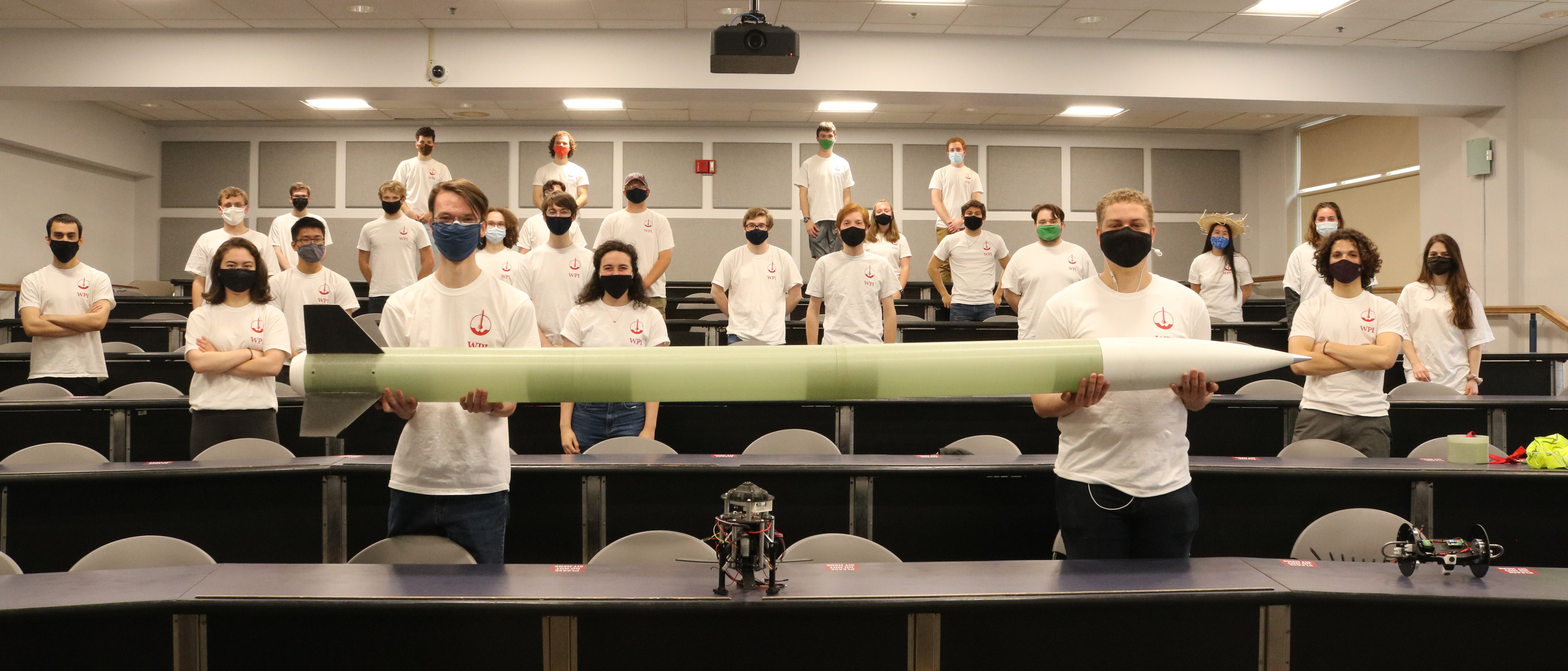
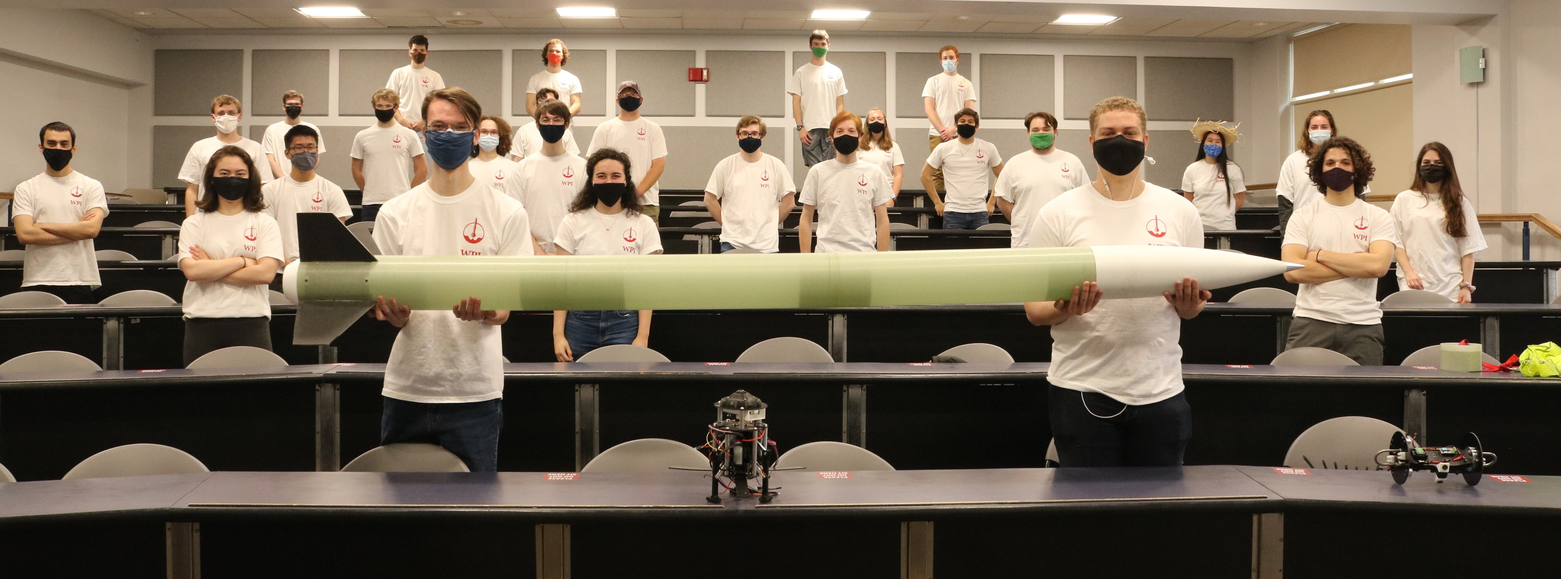
Added YouTube and LinkedIn links, (hopefully) fixed photo)

diff --git a/wpiaiaasite/hprc/templates/hprc/index.html b/wpiaiaasite/hprc/templates/hprc/index.html
@@ -12,7 +12,7 @@
         <div class="col-md-9">
             <h1>What is HPRC?</h1>
             <p>
-                The High Power Rocketry Club (HPRC) is a Subcommittee of WPI's chapter of the American Institute of
+                The High Power Rocketry Club (HPRC) is a subcommittee of WPI's chapter of the American Institute of
                 Aeronautics & Astronautics (AIAA) that competes in high power rocketry competitions.  This year we were
                 involved in
                 the NASA University Student Launch Initiative, the same competition we competed in the past two years. 
@@ -118,24 +118,33 @@
             </div>
             <h2 class="mt-3">Social Media</h2>
             <div class="row">
-                <div class="col-sm-6">
+                <div class="col-sm-5">
                     <a href="https://www.instagram.com/wpi_hprc/" target="_blank">
                         <img src="{% static 'icon/instagram.svg' %}" alt="Instagram" width=50%
                             class="mx-auto mt-2 d-block grow" />
                     </a>
                 </div>
-                <div class="col-sm-6">
+                <div class="col-sm-5">
+                    <a href="https://www.youtube.com/channel/UCBQQnkCEcQVjmMxXQIKhfKQ" target="_blank">
+                        <img src="{% static 'icon/youtube-logo.svg' %}" alt="YouTube" width=50%
+                            class="mx-auto mt-2 d-block grow" />
+                    </a>
+                </div>
+            </div>
+            <br>
+            <div class="row">
+                <div class="col-sm-5">
+                    <a href="https://www.linkedin.com/company/wpi-hprc/" target="_blank">
+                        <img src="{% static 'icon/linkedin-logo.svg' %}" alt="LinkedIn" width=50%
+                            class="mx-auto mt-2 d-block grow" />
+                    </a>
+                </div>
+                <div class="col-sm-5">
                     <a href="https://www.facebook.com/WPIHPRC" target="_blank">
                         <img src="{% static 'icon/facebook.svg' %}" alt="Facebook" width=50%
                             class="mx-auto mt-2 d-block grow" />
                     </a>
                 </div>
-                <!-- <div class="col-sm-4">
-                    <a href="https://www.youtube.com/channel/UCBQQnkCEcQVjmMxXQIKhfKQ" target="_blank">
-                        <img src="{% static 'icon/youtube-icon.svg' %}" alt="YouTube" width=50%
-                            class="mx-auto mt-2 d-block grow" />
-                    </a>
-                </div> -->
             </div>
             <h2 class="mt-3">Sponsors</h2>
             <p>

diff --git a/wpiaiaasite/hprc/templates/hprc/project.html b/wpiaiaasite/hprc/templates/hprc/project.html
@@ -47,6 +47,13 @@
                     <p class="muted text-left">{{caption}}</p>
                 </div>
 
+                <!-- <div class="pl-5" style="float: right; display: block; width: 40%;">
+                    <video class="float-right rounded m-3" height="300px" controls="true" alt="{{caption}}">
+                        <source src="{% static video %}">
+                    </video>
+                    <p class="muted text-left">{{caption}}</p>
+                </div> -->
+
                 <!-- <figure class="figure " style="display:inline; float: right;">
                     <img class="figure-img img-fluid rounded m-3" style="width:35%;" src="{% static image %}"
                         alt="{{caption}}" />

diff --git a/wpiaiaasite/hprc/views.py b/wpiaiaasite/hprc/views.py
@@ -52,6 +52,8 @@ def sirius(request):
         },
         "image": 'hprc/sirius/ejection-testing.jpg',
         "caption": "A member prepares the full-scale rocket, Sirius, for ejection testing in May 2021.",
+        # "video": 'hprc/sirius/main-chute.mp4',
+        # "video-caption": "test 1 2 3",
         "text": [
             (
                 "Entering their third year, WPI USLI made the decision to rebrand to the High Power Rocketry Club (HPRC).  "
